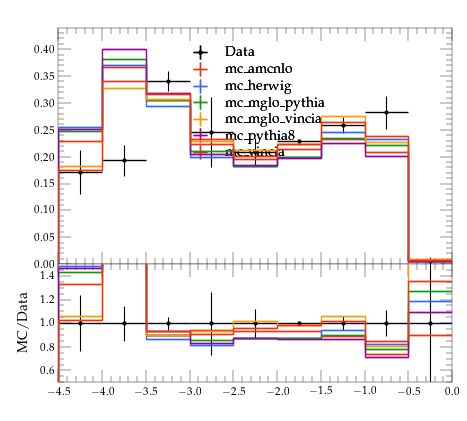
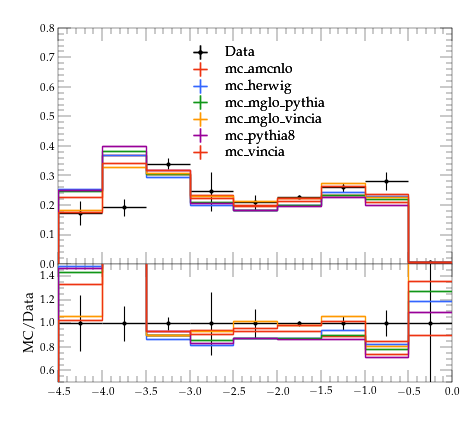
Beautification

diff --git a/html/CMS_2026_PAS_SMP_25_010/index.html b/html/CMS_2026_PAS_SMP_25_010/index.html
@@ -156,7 +156,7 @@
 </section>
 
 <footer>
-<p id="timestamp">Generated at Wednesday, 17. June 2026 04:37PM</p>
+<p id="timestamp">Generated at Wednesday, 17. June 2026 04:43PM</p>
 </footer>
 
 </body>

diff --git a/html/index.html b/html/index.html
@@ -66,7 +66,7 @@
 <h2><a href="CMS_2026_PAS_SMP_25_010/index.html" style="text-decoration:none;">CMS_2026_PAS_SMP_25_010</a></h2>
 <p><a href="https://inspirehep.net/literature?q=MP_25_010">Inspire</a> &#124; <a href="http://hepdata.cedar.ac.uk/view/irnMP_25_010">HepData</a></p>
 <footer>
-<p id="timestamp">Generated at Wednesday, 17. June 2026 04:37PM</p>
+<p id="timestamp">Generated at Wednesday, 17. June 2026 04:43PM</p>
 <p id="command">Created with command: <pre>rivet-mkhtml -o html -c out/axis.plot out/mc_amcnlo.yoda out/mc_herwig.yoda out/mc_mglo_pythia.yoda out/mc_mglo_vincia.yoda out/mc_pythia8.yoda out/mc_vincia.yoda out/ref.yoda</pre></p>
 </footer>
 

diff --git a/html/CMS_2026_PAS_SMP_25_010/zjets_groomed_pt0.py b/html/CMS_2026_PAS_SMP_25_010/zjets_groomed_pt0.py
@@ -2,7 +2,7 @@
 
 # This Python script was auto-generated using YODA v2.1.3.
 # Analysis object: /CMS_2026_PAS_SMP_25_010/zjets_groomed_pt0
-# Timestamp: 17-06-2026 (16:37:38)
+# Timestamp: 17-06-2026 (16:43:15)
 
 import matplotlib as mpl
 import matplotlib.pyplot as plt
@@ -27,7 +27,7 @@ ax_title  = ''
 ax_xScale = 'linear'
 ax_yScale = 'linear'
 xLims = (-4.5, 0.0)
-yLims = (0.0, 0.44283932)
+yLims = (0.0, 0.8)
 
 # TeX-friendly labels for the legend
 labels = {
@@ -339,8 +339,8 @@ ax.add_artist(ax.legend(legend_items,
                         labels['legend'][0],
                         title=labels['legend'][1],
                         alignment='left',
-                        loc='upper left',
-                        bbox_to_anchor=(0.0, 0.97)))
+                        loc='upper center',
+                        bbox_to_anchor=(0.5, 0.97)))
 
 # set plot metadata as defined above
 ratio0_ax.set_xlabel(ax_xLabel)

diff --git a/html/CMS_2026_PAS_SMP_25_010/zjets_groomed_pt1.py b/html/CMS_2026_PAS_SMP_25_010/zjets_groomed_pt1.py
@@ -2,7 +2,7 @@
 
 # This Python script was auto-generated using YODA v2.1.3.
 # Analysis object: /CMS_2026_PAS_SMP_25_010/zjets_groomed_pt1
-# Timestamp: 17-06-2026 (16:37:38)
+# Timestamp: 17-06-2026 (16:43:15)
 
 import matplotlib as mpl
 import matplotlib.pyplot as plt
@@ -27,7 +27,7 @@ ax_title  = ''
 ax_xScale = 'linear'
 ax_yScale = 'linear'
 xLims = (-4.5, 0.0)
-yLims = (0.0, 0.43983148000000005)
+yLims = (0.0, 0.8)
 
 # TeX-friendly labels for the legend
 labels = {

diff --git a/html/CMS_2026_PAS_SMP_25_010/zjets_groomed_pt2.py b/html/CMS_2026_PAS_SMP_25_010/zjets_groomed_pt2.py
@@ -2,7 +2,7 @@
 
 # This Python script was auto-generated using YODA v2.1.3.
 # Analysis object: /CMS_2026_PAS_SMP_25_010/zjets_groomed_pt2
-# Timestamp: 17-06-2026 (16:37:38)
+# Timestamp: 17-06-2026 (16:43:15)
 
 import matplotlib as mpl
 import matplotlib.pyplot as plt
@@ -27,7 +27,7 @@ ax_title  = ''
 ax_xScale = 'linear'
 ax_yScale = 'linear'
 xLims = (-4.5, 0.0)
-yLims = (0.0, 0.40239617)
+yLims = (0.0, 0.8)
 
 # TeX-friendly labels for the legend
 labels = {

diff --git a/html/CMS_2026_PAS_SMP_25_010/zjets_ungroomed_pt0.py b/html/CMS_2026_PAS_SMP_25_010/zjets_ungroomed_pt0.py
@@ -2,7 +2,7 @@
 
 # This Python script was auto-generated using YODA v2.1.3.
 # Analysis object: /CMS_2026_PAS_SMP_25_010/zjets_ungroomed_pt0
-# Timestamp: 17-06-2026 (16:37:38)
+# Timestamp: 17-06-2026 (16:43:15)
 
 import matplotlib as mpl
 import matplotlib.pyplot as plt

diff --git a/html/CMS_2026_PAS_SMP_25_010/zjets_ungroomed_pt1.py b/html/CMS_2026_PAS_SMP_25_010/zjets_ungroomed_pt1.py
@@ -2,7 +2,7 @@
 
 # This Python script was auto-generated using YODA v2.1.3.
 # Analysis object: /CMS_2026_PAS_SMP_25_010/zjets_ungroomed_pt1
-# Timestamp: 17-06-2026 (16:37:38)
+# Timestamp: 17-06-2026 (16:43:15)
 
 import matplotlib as mpl
 import matplotlib.pyplot as plt

diff --git a/html/CMS_2026_PAS_SMP_25_010/zjets_ungroomed_pt2.py b/html/CMS_2026_PAS_SMP_25_010/zjets_ungroomed_pt2.py
@@ -2,7 +2,7 @@
 
 # This Python script was auto-generated using YODA v2.1.3.
 # Analysis object: /CMS_2026_PAS_SMP_25_010/zjets_ungroomed_pt2
-# Timestamp: 17-06-2026 (16:37:38)
+# Timestamp: 17-06-2026 (16:43:15)
 
 import matplotlib as mpl
 import matplotlib.pyplot as plt

diff --git a/README.md b/README.md
@@ -17,7 +17,8 @@ vi config.sh          # set LCG_VIEW (Rivet >= 4.0); tune NEV/NSEEDS if you like
 ./submit_amcnlo.sh
 condor_q              #   ...watch them finish...
 
-./merge_plot.sh       # auto-discovers yodas/* and plots them all -> html/index.html
+./merge_plot.sh       # auto-discovers yodas/* and merges them -> out/*.yoda
+rivet-mkhtml -o html -c out/axis.plot out/*.yoda  # generate HTML plots
 ```
 
 There is **one submit script per generator** — run any subset, in any order, even
@@ -43,8 +44,9 @@ gen_*_job.sh          per-generator HTCondor payloads (one seed each):
                         gen_amcnlo_herwig_job.sh, gen_mglo_job.sh (pythia/vincia),
                         gen_mglo_herwig_job.sh, gen_powheg_job.sh, gen_sherpa_job.sh
 
-merge_plot.sh         sum every yodas/<gen>/ -> build_comparison.py -> rivet-mkhtml
+merge_plot.sh         sum every yodas/<gen>/ -> build_comparison.py
 build_comparison.py   slice each 2D prediction to per-slice unit-area 1D + /REF from npz
+axis.plot             rivet-mkhtml configuration (axis ranges, log scale, legend position)
 
 CMS_2026_PAS_SMP_25_010.cc      the Rivet analysis (2D, HepData binning)
 hepdata_export_{groomed,ungroomed}.npz   the data